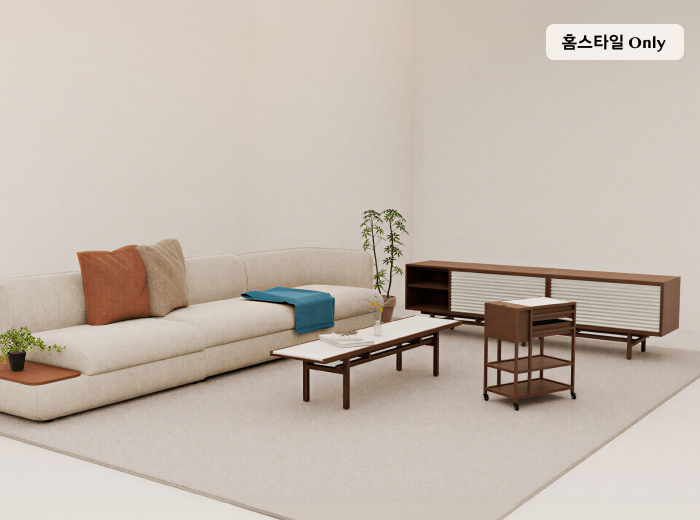
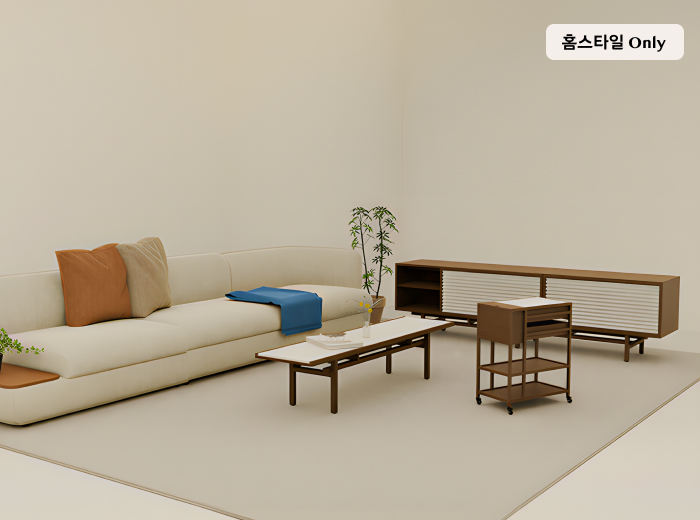
26.08.26 kb

diff --git a/exhibition/brandstory-banner/css/brandstory_banner.css b/exhibition/brandstory-banner/css/brandstory_banner.css
@@ -3099,7 +3099,7 @@
 }
 .brand-story-banner-container.commune.pc > section:nth-child(1) {
   left: 450px;
-  top: 180px;
+  top: 130px;
 }
 .brand-story-banner-container.commune.pc > section:nth-child(1) a img {
   width: 401px;
@@ -3128,7 +3128,7 @@
   top: 388px;
 }
 .brand-story-banner-container.commune.pc > section:nth-child(3) a img {
-  width: 405px;
+  width: 475px;
 }
 .brand-story-banner-container.commune.pc > section:nth-child(3) a .txt-box {
   position: absolute;
@@ -3176,13 +3176,13 @@
   gap: calc(0 / 390 * 100vw);
 }
 .brand-story-banner-container.commune.mo > section:nth-child(3) a img {
-  width: calc(334 / 390 * 100vw);
+  width: calc(347 / 390 * 100vw);
   margin-right: calc(0 / 390 * 100vw);
   top: calc(-10 / 390 * 100vw);
 }
 .brand-story-banner-container.commune.mo > section:nth-child(3) a .txt-box {
   top: calc(-50 / 390 * 100vw);
-  left: calc(130 / 390 * 100vw);
+  left: calc(120 / 390 * 100vw);
   text-align: right;
 }
 .brand-story-banner-container {
@@ -3365,4 +3365,87 @@
 }
 .brand-story-banner-container {
   /* //cane_collection */
+  /* epicurean */
+}
+.brand-story-banner-container.epicurean.pc > section:nth-child(1) {
+  left: 500px;
+  top: 120px;
+}
+.brand-story-banner-container.epicurean.pc > section:nth-child(1) a img {
+  width: 398px;
+}
+.brand-story-banner-container.epicurean.pc > section:nth-child(1) a .txt-box {
+  position: absolute;
+  left: -5px;
+  top: -10px;
+  text-align: right;
+}
+.brand-story-banner-container.epicurean.pc > section:nth-child(2) {
+  left: 34px;
+  top: 30px;
+}
+.brand-story-banner-container.epicurean.pc > section:nth-child(2) a img {
+  width: 270px;
+}
+.brand-story-banner-container.epicurean.pc > section:nth-child(2) a .txt-box {
+  position: absolute;
+  left: 230px;
+  top: 25px;
+  text-align: left;
+}
+.brand-story-banner-container.epicurean.pc > section:nth-child(3) {
+  left: 32px;
+  top: 298px;
+}
+.brand-story-banner-container.epicurean.pc > section:nth-child(3) a img {
+  width: 270px;
+}
+.brand-story-banner-container.epicurean.pc > section:nth-child(3) a .txt-box {
+  position: absolute;
+  left: 230px;
+  top: 25px;
+  text-align: left;
+}
+.brand-story-banner-container.epicurean.mo > section a {
+  align-items: flex-start;
+}
+.brand-story-banner-container.epicurean.mo > section:nth-child(1) a {
+  position: relative;
+  flex-direction: row-reverse;
+}
+.brand-story-banner-container.epicurean.mo > section:nth-child(1) a img {
+  width: calc(324 / 390 * 100vw);
+  left: calc(-30 / 390 * 100vw);
+  top: calc(60 / 390 * 100vw);
+}
+.brand-story-banner-container.epicurean.mo > section:nth-child(1) a .txt-box {
+  position: absolute;
+  left: calc(70 / 390 * 100vw);
+  top: calc(40 / 390 * 100vw);
+}
+.brand-story-banner-container.epicurean.mo > section:nth-child(2) a img {
+  width: calc(202 / 390 * 100vw);
+  left: calc(30 / 390 * 100vw);
+  top: calc(40 / 390 * 100vw);
+}
+.brand-story-banner-container.epicurean.mo > section:nth-child(2) a .txt-box {
+  left: calc(10 / 390 * 100vw);
+  top: calc(80 / 390 * 100vw);
+}
+.brand-story-banner-container.epicurean.mo > section:nth-child(3) a {
+  flex-direction: row-reverse;
+  margin: calc(70 / 390 * 100vw) 0 0;
+}
+.brand-story-banner-container.epicurean.mo > section:nth-child(3) a img {
+  width: calc(202 / 390 * 100vw);
+  right: calc(20 / 390 * 100vw);
+  top: calc(-30 / 390 * 100vw);
+}
+.brand-story-banner-container.epicurean.mo > section:nth-child(3) a .txt-box {
+  top: calc(15 / 390 * 100vw);
+  left: calc(-10 / 390 * 100vw);
+  text-align: right;
+}
+.brand-story-banner-container {
+  /* //epicurean */
 }

diff --git a/exhibition/brandstory-banner/css/brandstory_banner.scss b/exhibition/brandstory-banner/css/brandstory_banner.scss
@@ -1976,7 +1976,7 @@ $mo-width: 390;
   &.commune {
     &.pc {
       > section {
-        &:nth-child(1) { left: 450px; top: 180px;
+        &:nth-child(1) { left: 450px; top: 130px;
           a {
             img { width: 401px; }
             .txt-box { position: absolute; left: 290px; top: -40px; text-align: right; }
@@ -1990,7 +1990,7 @@ $mo-width: 390;
         }
         &:nth-child(3) { left: 52px; top: 388px;
           a {
-            img { width: 405px; }
+            img { width: 475px; }
             .txt-box { position: absolute; left: 45px; top: -50px; text-align: left; }
           }
         }
@@ -2013,8 +2013,8 @@ $mo-width: 390;
         }
         &:nth-child(3) { margin-top: mo(70);
           a { flex-direction: row-reverse; gap: mo(0);
-            img { width: mo(334); margin-right: mo(0); top: mo(-10); }
-            .txt-box { top: mo(-50); left: mo(130); text-align: right; }
+            img { width: mo(347); margin-right: mo(0); top: mo(-10); }
+            .txt-box { top: mo(-50); left: mo(120); text-align: right; }
           }
         }
       }
@@ -2121,6 +2121,56 @@ $mo-width: 390;
     }
   }
   /* //cane_collection */   
+
+  /* epicurean */
+  &.epicurean {
+    &.pc {
+      > section {
+        &:nth-child(1) { left: 500px; top: 120px;
+          a {
+            img { width: 398px; }
+            .txt-box { position: absolute; left: -5px; top: -10px; text-align: right; }
+          }
+        }
+        &:nth-child(2) { left: 34px; top: 30px; 
+          a {
+            img { width: 270px; }
+            .txt-box { position: absolute; left: 230px; top: 25px; text-align: left; }
+          }
+        }
+        &:nth-child(3) { left: 32px; top: 298px;
+          a {
+            img { width: 270px; }
+            .txt-box { position: absolute; left: 230px; top: 25px; text-align: left; }
+          }
+        }
+      }
+    }
+    &.mo {
+      > section {
+        a { align-items: flex-start; }
+        &:nth-child(1) {
+          a { position: relative; flex-direction: row-reverse;
+            img { width: mo(324); left: mo(-30); top: mo(60); }
+            .txt-box { position: absolute; left: mo(70); top: mo(40); }
+          }
+        }
+        &:nth-child(2) {
+          a {
+            img { width: mo(202); left: mo(30); top: mo(40); }
+            .txt-box { left: mo(10); top: mo(80); }
+          }
+        }
+        &:nth-child(3) {
+          a { flex-direction: row-reverse; margin: mo(70) 0 0;
+            img { width: mo(202); right: mo(20); top: mo(-30); }
+            .txt-box { top: mo(15); left: mo(-10); text-align: right; }
+          }
+        }
+      }
+    }
+  }
+  /* //epicurean */     
   
 
 }

diff --git a/exhibition/brandstory-banner/html/epicurean.html b/exhibition/brandstory-banner/html/epicurean.html
@@ -1,0 +1,44 @@
+<!DOCTYPE html>
+<html lang="ko">
+
+<head>
+  <meta charset="UTF-8">
+  <meta name="viewport" content="width=device-width, initial-scale=1.0">
+  <title>epicurean 브랜드 스토리 배너</title>
+  <link rel="stylesheet" href="../css/reset.css">
+  <link rel="stylesheet" href="../css/brandstory_banner.css">
+</head>
+
+<body style="padding: 0; margin: 0;">
+  <div class="brand-story-banner-container epicurean pc">
+    <section>
+      <a href="https://homestyle.lge.co.kr/item?productId=G25110022457">
+        <img src="../asset/image/epicurean01.png" alt="">
+        <span class="txt-box">
+          <span class="txt1">700KS CUTTING BOARD NATURAL </span>
+          <span class="txt2">700KS 민도마 내츄럴</span>  
+        </span>
+      </a>
+    </section>
+    <section>
+      <a href="https://homestyle.lge.co.kr/item?productId=G25110022463">
+        <img src="../asset/image/epicurean02.png" alt="">
+        <span class="txt-box">
+          <span class="txt1">HANDY CUTTING<br class="mo">BOARD SLATE</span>
+          <span class="txt2">핸디도마 슬레이트</span>
+        </span> 
+      </a>
+    </section>
+    <section>
+      <a href="https://homestyle.lge.co.kr/item?productId=G25110022467">
+        <img src="../asset/image/epicurean03.png" alt="">
+        <span class="txt-box">
+          <span class="txt1">HANDY CUTTING<br class="mo">BOARD NATURAL</span>
+          <span class="txt2">핸디도마 내츄럴</span>
+        </span>
+      </a>
+    </section>
+  </div>
+</body>
+
+</html>

diff --git a/exhibition/brandstory-banner/html/commune.html b/exhibition/brandstory-banner/html/commune.html
@@ -10,11 +10,10 @@
 </head>
 
 <body style="padding: 0; margin: 0;">
-
-  <div class="brand-story-banner-container commune mo">
+  <div class="brand-story-banner-container commune pc">
     <section>
       <a href="https://homestyle.lge.co.kr/item?productId=G25110022457">
-        <img src="../asset/image/commune01.png" alt="">
+        <img src="https://www.lge.co.kr/home_style_pages/2026/04/brandstory-banner/asset/image/commune01.png" alt="">
         <span class="txt-box">
           <span class="txt1">Tierra Dining Set</span>
           <span class="txt2">티에라 다이닝 세트</span>  
@@ -23,7 +22,7 @@
     </section>
     <section>
       <a href="https://homestyle.lge.co.kr/item?productId=G25110022463">
-        <img src="../asset/image/commune02.png" alt="">
+        <img src="https://www.lge.co.kr/home_style_pages/2026/04/brandstory-banner/asset/image/commune02.png" alt="">
         <span class="txt-box">
           <span class="txt1">Rituals Dining Set</span>
           <span class="txt2">리츄얼스 <br class="mo">다이닝 세트</span>
@@ -32,7 +31,7 @@
     </section>
     <section>
       <a href="https://homestyle.lge.co.kr/item?productId=G25110022467">
-        <img src="../asset/image/commune03.png" alt="">
+        <img src="https://www.lge.co.kr/home_style_pages/2026/04/brandstory-banner/asset/image/commune03.png" alt="">
         <span class="txt-box">
           <span class="txt1">Rituals Living Room Set</span>
           <span class="txt2">리츄얼스 리빙룸 세트</span>

diff --git a/exhibition/brand_story_renewal/commune.html b/exhibition/brand_story_renewal/commune.html
@@ -94,10 +94,10 @@
         </div>
         <div class="txt_box">
           <h3>
-            <span>Tropez Dining Chair</span>
+            <span>Rituals Living Room Set</span>
             <a href="https://homestyle.lge.co.kr/item?productId=G25110022467" class="font_cg">리츄얼스 리빙룸 세트</a>
           </h3>
-          <p>리츄얼스 리빙룸 세트(Rituals Living Room Set)는 소파, 거실 테이블, TV거실장, 트롤리 선반으로 구성된 컬렉션입니다. 모듈 소파는 팔걸이와 트레이 위치를 좌·우 옵션으로 선택할 수 있으며, 패브릭과 가죽 중 소재를 골라 취향에 맞게 주문할 수 있습니다. 소파부터 수납 가구까지 한 세트로 마련되어 거실 전체를 통일감 있게 맞추기 좋습니다.</p>
+          <p>리츄얼스 리빙룸 세트(Rituals Living Room Set)는 3인 모듈소파, 커피 테이블, TV 캐비닛 거실장, 트롤리 선반으로 구성된 컬렉션입니다. 모듈소파는 팔걸이와 트레이 위치를 좌·우 옵션으로 선택할 수 있으며, 패브릭과 가죽 중 소재를 골라 취향에 맞게 주문할 수 있습니다. 소파부터 수납 가구까지 한 세트로 마련되어 거실 전체를 통일감 있게 맞추기 좋습니다.</p>
         </div>
       </article>
     </section>
